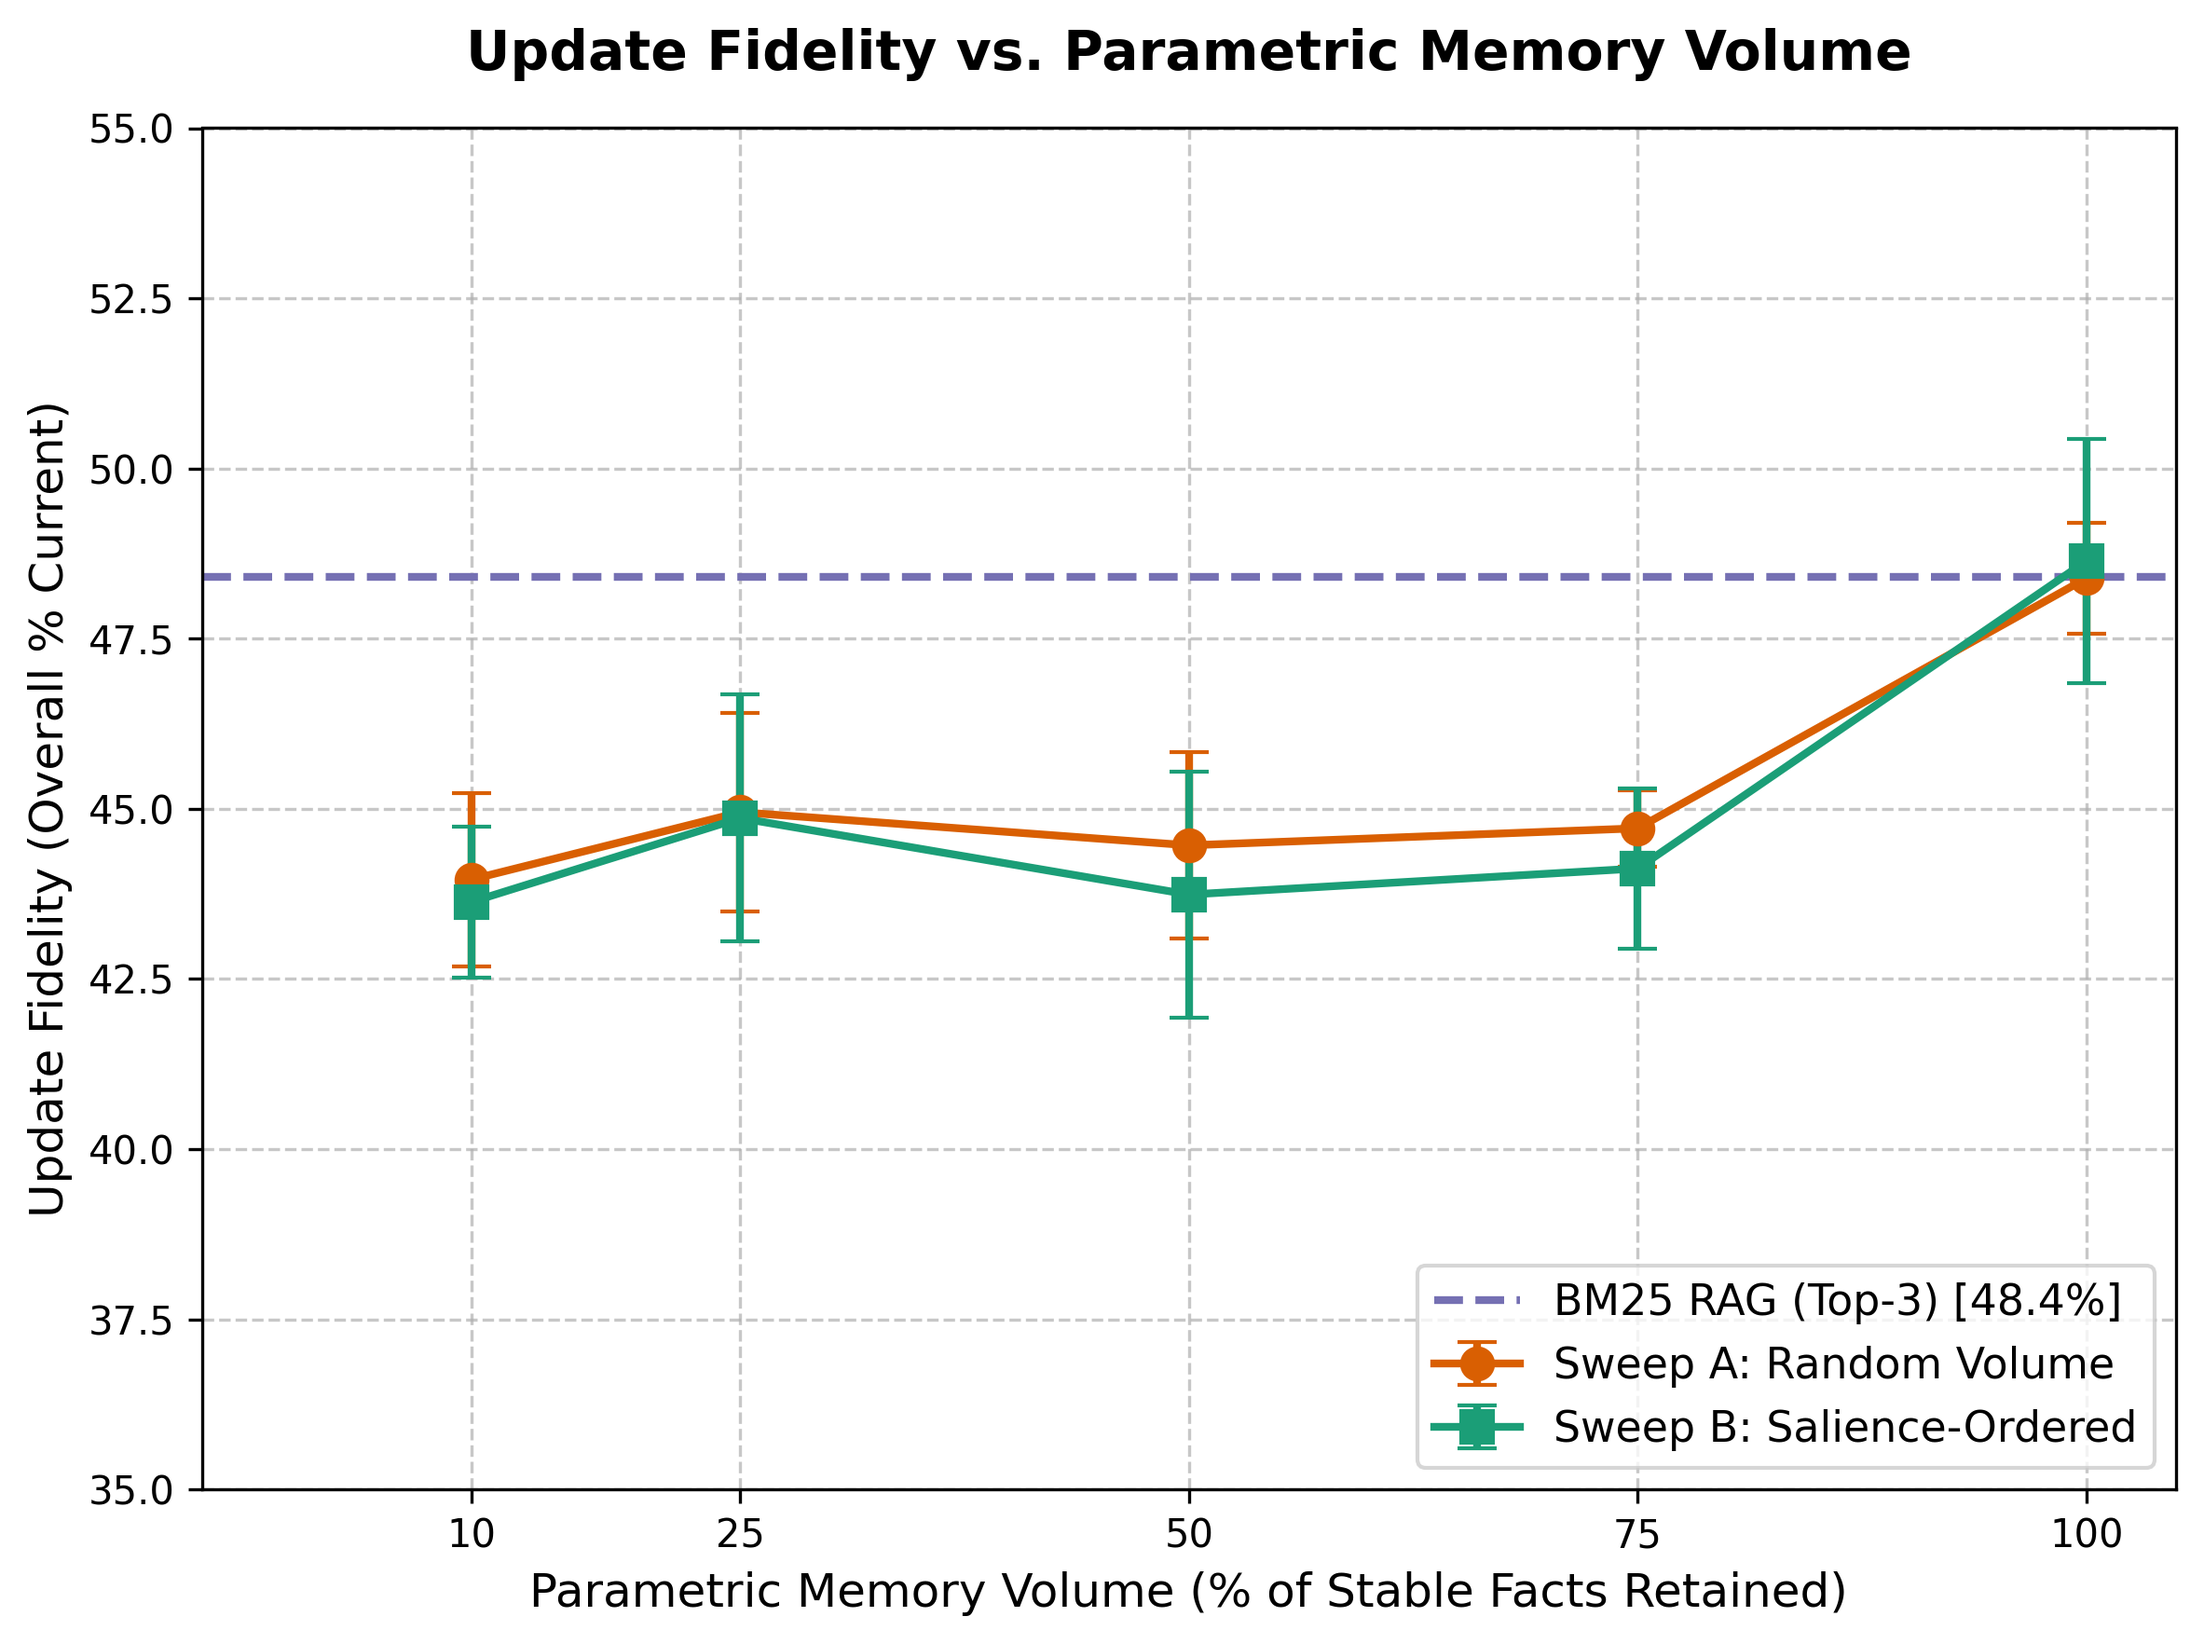
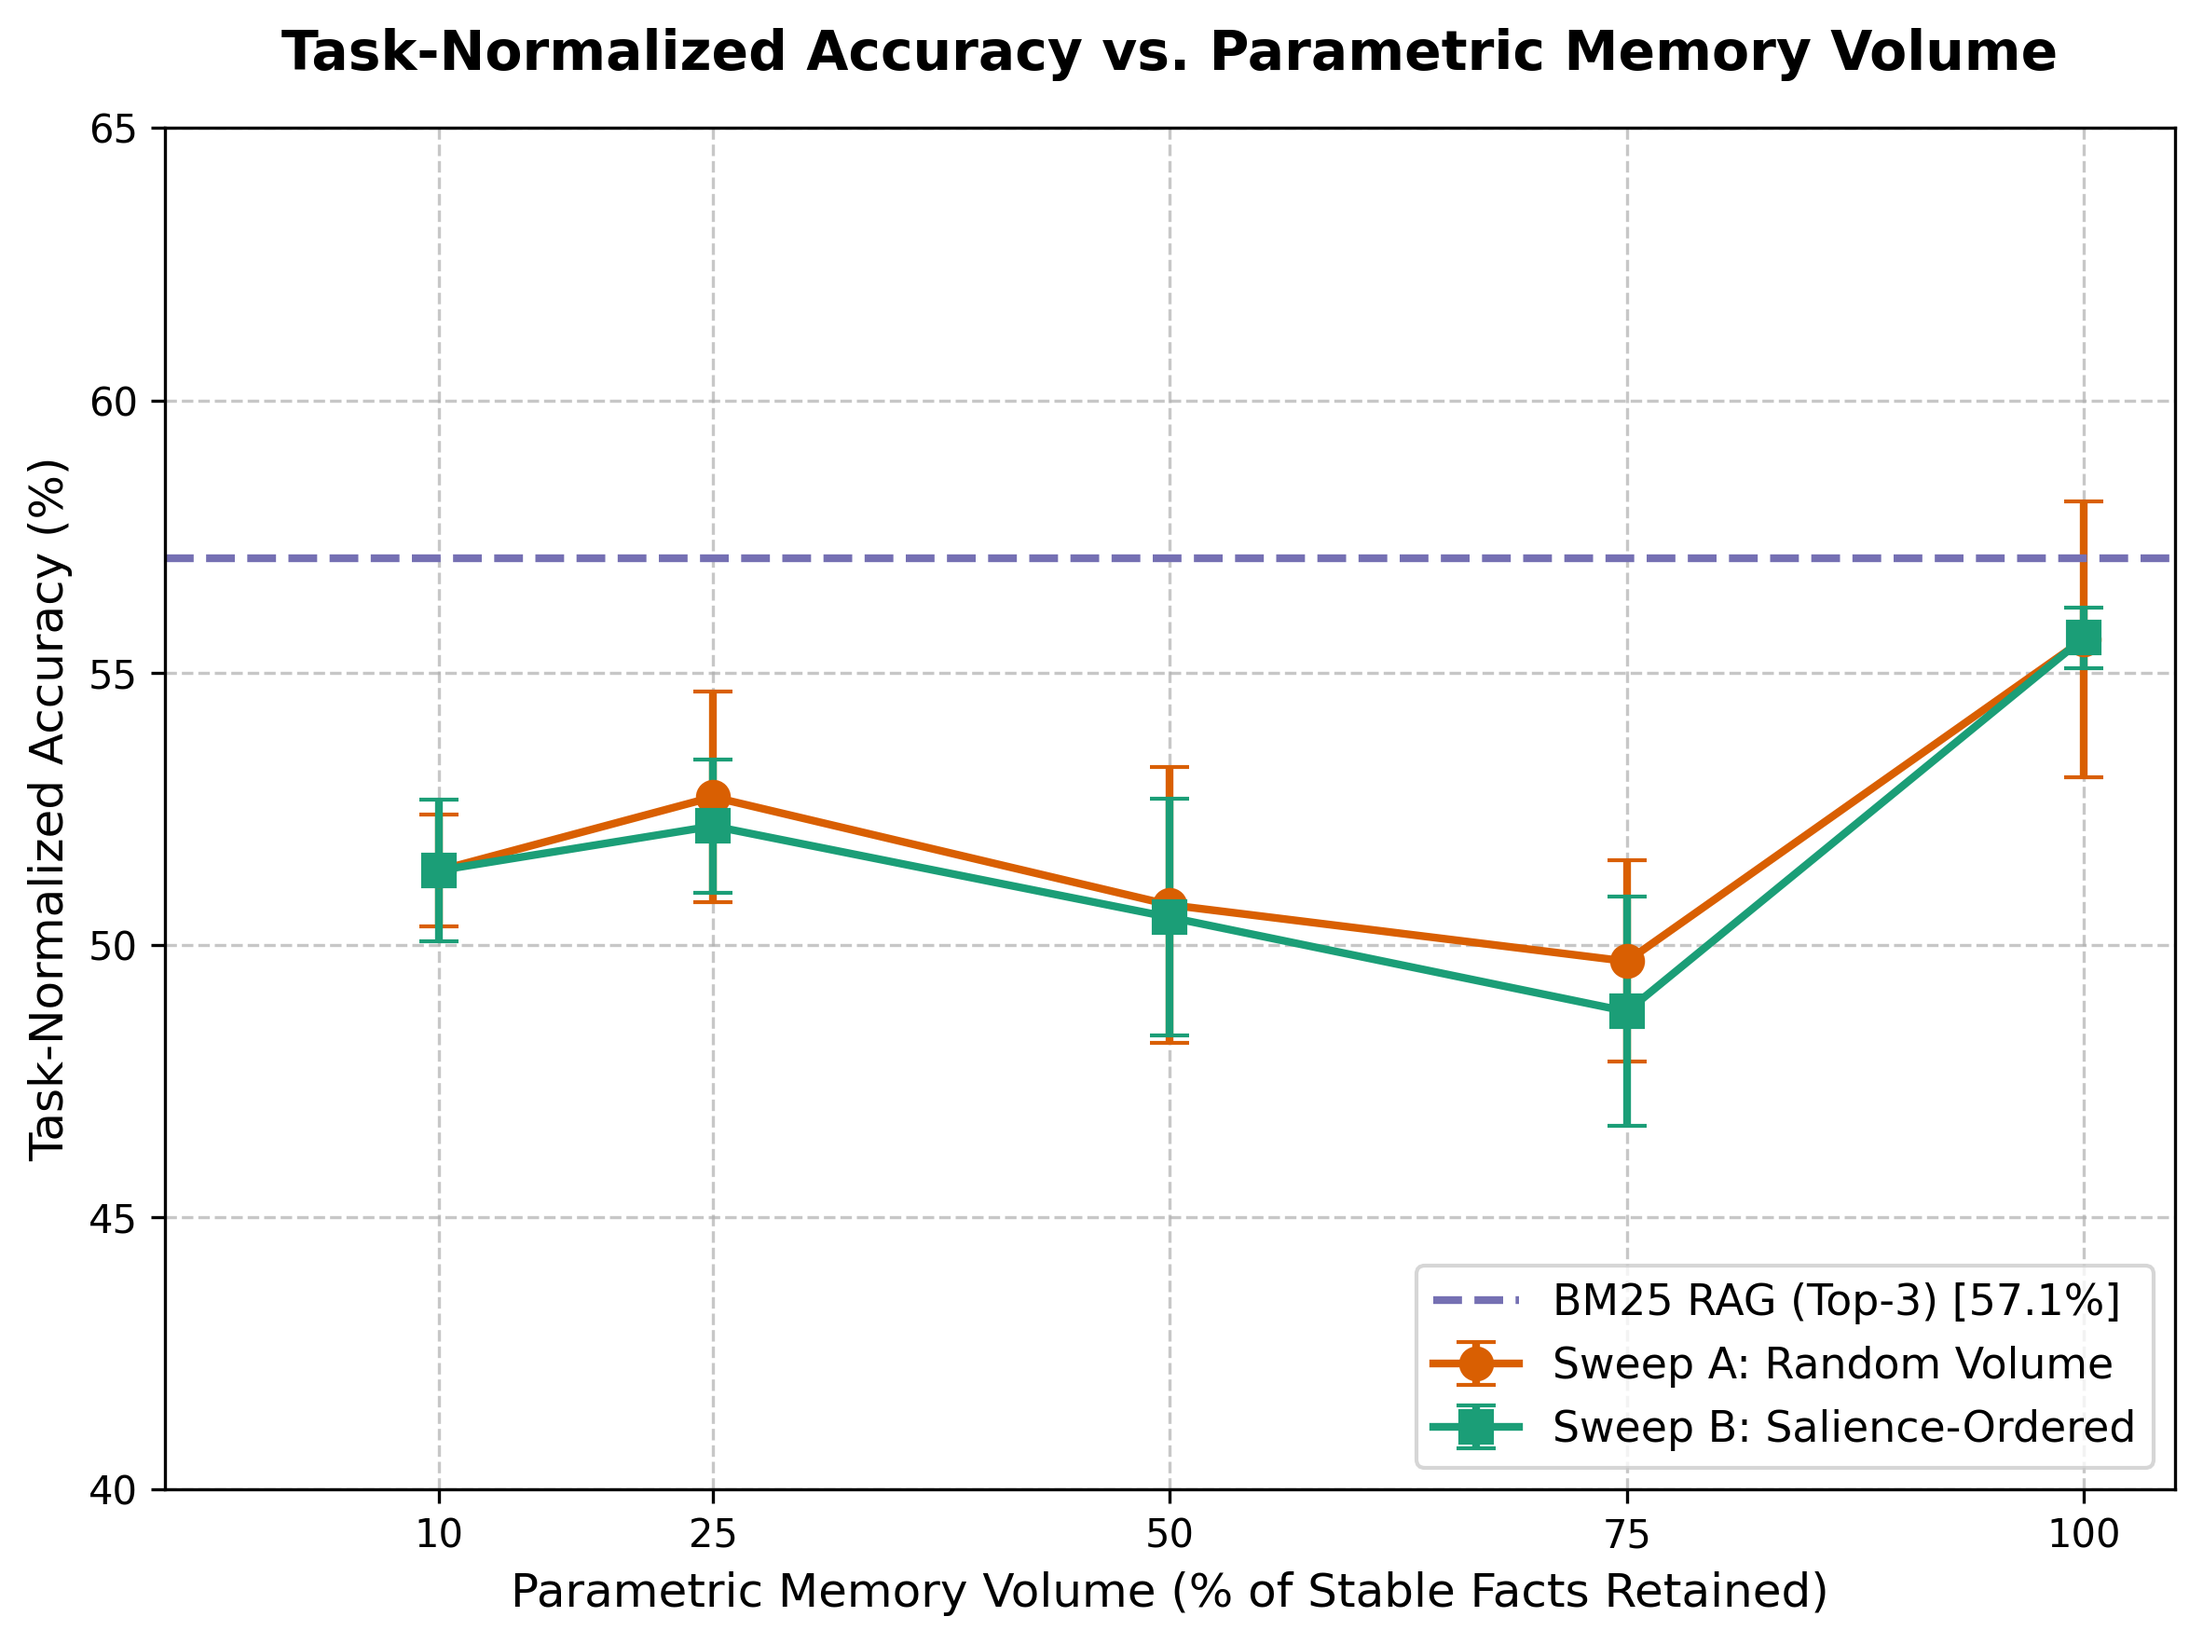
fix: correct figures for editorial feedback — task-normalized accuracy + forward-time only
Fig 1: replace raw pct_current with Task-Normalized Accuracy:
  avg(current_state→current, stale_rejection→current,
      historical_state→stale, relational→current) / 4
  Historical probes are now scored correctly (stale = right answer).

Fig 2: restrict stacked bar to Forward-Time queries only
  (current_state + stale_premise_rejection + relational_after_update),
  excluding historical_state where "stale" is correct and would
  inflate the red band artifactually.

Made-with: Cursor

diff --git a/v2_temporal_benchmark/plot_results.py b/v2_temporal_benchmark/plot_results.py
@@ -13,105 +13,110 @@ def plot_killer_figures(results_dir: Path):
 
     df = pd.read_csv(sweep_path)
     
-    # Aggregate over seeds
+    # Calculate Task-Normalized Accuracy per row
+    df['task_accuracy'] = (
+        df['current_state_pct_current'] + 
+        df['stale_premise_rejection_pct_current'] + 
+        df['historical_state_pct_stale'] + 
+        df['relational_after_update_pct_current']
+    ) / 4.0
+    
+    # Calculate Forward-Time Distribution (Excluding Historical)
+    df['fw_pct_current'] = (df['current_state_pct_current'] + df['stale_premise_rejection_pct_current'] + df['relational_after_update_pct_current']) / 3.0
+    df['fw_pct_stale'] = (df['current_state_pct_stale'] + df['stale_premise_rejection_pct_stale'] + df['relational_after_update_pct_stale']) / 3.0
+    df['fw_pct_both'] = (df['current_state_pct_both'] + df['stale_premise_rejection_pct_both'] + df['relational_after_update_pct_both']) / 3.0
+    df['fw_pct_distractor'] = (df['current_state_pct_distractor'] + df['stale_premise_rejection_pct_distractor'] + df['relational_after_update_pct_distractor']) / 3.0
+
     agg_df = df.groupby(['sweep_type', 'volume_pct']).agg(
-        pct_current=('overall_pct_current', 'mean'),
-        std_current=('overall_pct_current', 'std'),
-        pct_stale=('overall_pct_stale', 'mean'),
-        pct_both=('overall_pct_both', 'mean'),
-        pct_distractor=('overall_pct_distractor', 'mean')
+        task_accuracy=('task_accuracy', 'mean'),
+        std_accuracy=('task_accuracy', 'std'),
+        fw_pct_current=('fw_pct_current', 'mean'),
+        fw_pct_stale=('fw_pct_stale', 'mean'),
+        fw_pct_both=('fw_pct_both', 'mean'),
+        fw_pct_distractor=('fw_pct_distractor', 'mean')
     ).reset_index()
 
     # ---------------------------------------------------------
-    # Figure 1: The Volume-Fidelity Frontier
+    # Figure 1: The Volume-Fidelity Saturation Curve
     # ---------------------------------------------------------
     fig, ax = plt.subplots(figsize=(8, 6))
     
-    # Sweep A (Random)
     random_df = agg_df[agg_df['sweep_type'] == 'random'].sort_values('volume_pct')
-    ax.errorbar(random_df['volume_pct'] * 100, random_df['pct_current'], yerr=random_df['std_current'],
+    ax.errorbar(random_df['volume_pct'] * 100, random_df['task_accuracy'], yerr=random_df['std_accuracy'],
                  marker='o', linestyle='-', linewidth=2, capsize=5, markersize=8,
                  label='Sweep A: Random Volume', color='#d95f02')
     
-    # Sweep B (Salience)
     salience_df = agg_df[agg_df['sweep_type'] == 'salience'].sort_values('volume_pct')
-    ax.errorbar(salience_df['volume_pct'] * 100, salience_df['pct_current'], yerr=salience_df['std_current'],
+    ax.errorbar(salience_df['volume_pct'] * 100, salience_df['task_accuracy'], yerr=salience_df['std_accuracy'],
                  marker='s', linestyle='-', linewidth=2, capsize=5, markersize=8,
                  label='Sweep B: Salience-Ordered', color='#1b9e77')
     
-    # RAG Baseline
     if rag_path.exists():
         rag_df = pd.read_csv(rag_path)
-        rag_mean = rag_df['overall_pct_current'].mean()
-        rag_std = rag_df['overall_pct_current'].std()
-        ax.axhline(y=rag_mean, color='#7570b3', linestyle='--', linewidth=2, 
-                   label=f'BM25 RAG (Top-3) [{rag_mean:.1f}%]')
+        rag_df['task_accuracy'] = (rag_df['current_state_pct_current'] + rag_df['stale_premise_rejection_pct_current'] + rag_df['historical_state_pct_stale'] + rag_df['relational_after_update_pct_current']) / 4.0
+        rag_mean = rag_df['task_accuracy'].mean()
+        rag_std = rag_df['task_accuracy'].std()
+        ax.axhline(y=rag_mean, color='#7570b3', linestyle='--', linewidth=2, label=f'BM25 RAG (Top-3) [{rag_mean:.1f}%]')
         ax.fill_between([-5, 105], rag_mean - rag_std, rag_mean + rag_std, color='#7570b3', alpha=0.1)
 
-    ax.set_title('Update Fidelity vs. Parametric Memory Volume', fontsize=14, fontweight='bold', pad=15)
+    ax.set_title('Task-Normalized Accuracy vs. Parametric Memory Volume', fontsize=14, fontweight='bold', pad=15)
     ax.set_xlabel('Parametric Memory Volume (% of Stable Facts Retained)', fontsize=12)
-    ax.set_ylabel('Update Fidelity (Overall % Current)', fontsize=12)
-    ax.set_ylim(35, 55) 
+    ax.set_ylabel('Task-Normalized Accuracy (%)', fontsize=12)
+    ax.set_ylim(40, 65) 
     ax.set_xlim(-5, 105)
     ax.set_xticks([10, 25, 50, 75, 100])
     ax.grid(True, linestyle='--', alpha=0.7)
     ax.legend(fontsize=11, loc='lower right')
-    
     plt.tight_layout()
     fig.savefig(results_dir / 'fig1_volume_fidelity.png', dpi=300, bbox_inches='tight')
     plt.close()
 
     # ---------------------------------------------------------
-    # Figure 2: Behavioral Superposition (Stacked Bar Chart)
+    # Figure 2: Forward-Time Behavioral Superposition 
     # ---------------------------------------------------------
     fig, ax = plt.subplots(figsize=(10, 6))
     
-    volumes = random_df['volume_pct'] * 100
-    x = np.arange(len(volumes) + 1) # +1 for RAG
+    volumes = salience_df['volume_pct'] * 100
+    x = np.arange(len(volumes) + 1)
     width = 0.6
     
-    # Use Sweep B (Salience) for the stack since it shows the peak Superposition best
-    c_vals = list(salience_df['pct_current'].values)
-    s_vals = list(salience_df['pct_stale'].values)
-    b_vals = list(salience_df['pct_both'].values)
-    d_vals = list(salience_df['pct_distractor'].values)
+    c_vals = list(salience_df['fw_pct_current'].values)
+    s_vals = list(salience_df['fw_pct_stale'].values)
+    b_vals = list(salience_df['fw_pct_both'].values)
+    d_vals = list(salience_df['fw_pct_distractor'].values)
     labels_x = [f"LoRA\n{int(v)}% Vol" for v in volumes]
 
     if rag_path.exists():
-        c_vals.append(rag_mean)
-        s_vals.append(rag_df['overall_pct_stale'].mean())
-        b_vals.append(rag_df['overall_pct_both'].mean())
-        d_vals.append(rag_df['overall_pct_distractor'].mean())
+        rag_fw_c = (rag_df['current_state_pct_current'].mean() + rag_df['stale_premise_rejection_pct_current'].mean() + rag_df['relational_after_update_pct_current'].mean()) / 3.0
+        rag_fw_s = (rag_df['current_state_pct_stale'].mean() + rag_df['stale_premise_rejection_pct_stale'].mean() + rag_df['relational_after_update_pct_stale'].mean()) / 3.0
+        rag_fw_b = (rag_df['current_state_pct_both'].mean() + rag_df['stale_premise_rejection_pct_both'].mean() + rag_df['relational_after_update_pct_both'].mean()) / 3.0
+        rag_fw_d = (rag_df['current_state_pct_distractor'].mean() + rag_df['stale_premise_rejection_pct_distractor'].mean() + rag_df['relational_after_update_pct_distractor'].mean()) / 3.0
+        
+        c_vals.append(rag_fw_c)
+        s_vals.append(rag_fw_s)
+        b_vals.append(rag_fw_b)
+        d_vals.append(rag_fw_d)
         labels_x.append("RAG\nTop-3")
 
-    c_vals = np.array(c_vals)
-    s_vals = np.array(s_vals)
-    b_vals = np.array(b_vals)
-    d_vals = np.array(d_vals)
-    
-    c_color, s_color, b_color, d_color = '#2ca02c', '#d62728', '#ff7f0e', '#7f7f7f' 
-    
-    ax.bar(x, c_vals, width, label='Current State (Update Fidelity)', color=c_color, edgecolor='white')
-    ax.bar(x, s_vals, width, bottom=c_vals, label='Stale State (Endorsement)', color=s_color, edgecolor='white')
-    ax.bar(x, b_vals, width, bottom=c_vals + s_vals, label='Behavioral Superposition (Both)', color=b_color, edgecolor='white')
-    ax.bar(x, d_vals, width, bottom=c_vals + s_vals + b_vals, label='Distractor / Confusion', color=d_color, edgecolor='white')
+    ax.bar(x, c_vals, width, label='Current State (Update Fidelity)', color='#2ca02c', edgecolor='white')
+    ax.bar(x, s_vals, width, bottom=c_vals, label='Stale State (Endorsement)', color='#d62728', edgecolor='white')
+    ax.bar(x, b_vals, width, bottom=np.array(c_vals) + np.array(s_vals), label='Behavioral Superposition (Both)', color='#ff7f0e', edgecolor='white')
+    ax.bar(x, d_vals, width, bottom=np.array(c_vals) + np.array(s_vals) + np.array(b_vals), label='Distractor / Confusion', color='#7f7f7f', edgecolor='white')
 
-    ax.set_title('Distribution of Beliefs under Fact Drift\n(Salience-Ordered LoRA vs RAG)', fontsize=14, fontweight='bold', pad=15)
+    ax.set_title('Distribution of Beliefs on Forward-Time Queries\n(Salience-Ordered LoRA vs RAG)', fontsize=14, fontweight='bold', pad=15)
     ax.set_ylabel('Percentage of Answers (%)', fontsize=12)
     ax.set_xticks(x)
     ax.set_xticklabels(labels_x)
     ax.set_ylim(0, 100)
     ax.grid(axis='y', linestyle='--', alpha=0.7)
     
-    # Reverse legend order to match stack visual (top to bottom)
     handles, labels = ax.get_legend_handles_labels()
     ax.legend(handles[::-1], labels[::-1], loc='center left', bbox_to_anchor=(1.02, 0.5), fontsize=11)
-    
     plt.tight_layout()
     fig.savefig(results_dir / 'fig2_superposition_stack.png', dpi=300, bbox_inches='tight')
     plt.close()
     
-    print(f"Success! Charts saved to {results_dir}")
+    print(f"Success! Corrected charts saved to {results_dir}")
 
 if __name__ == "__main__":
     RESULTS_DIR = Path(__file__).resolve().parent / "results"
